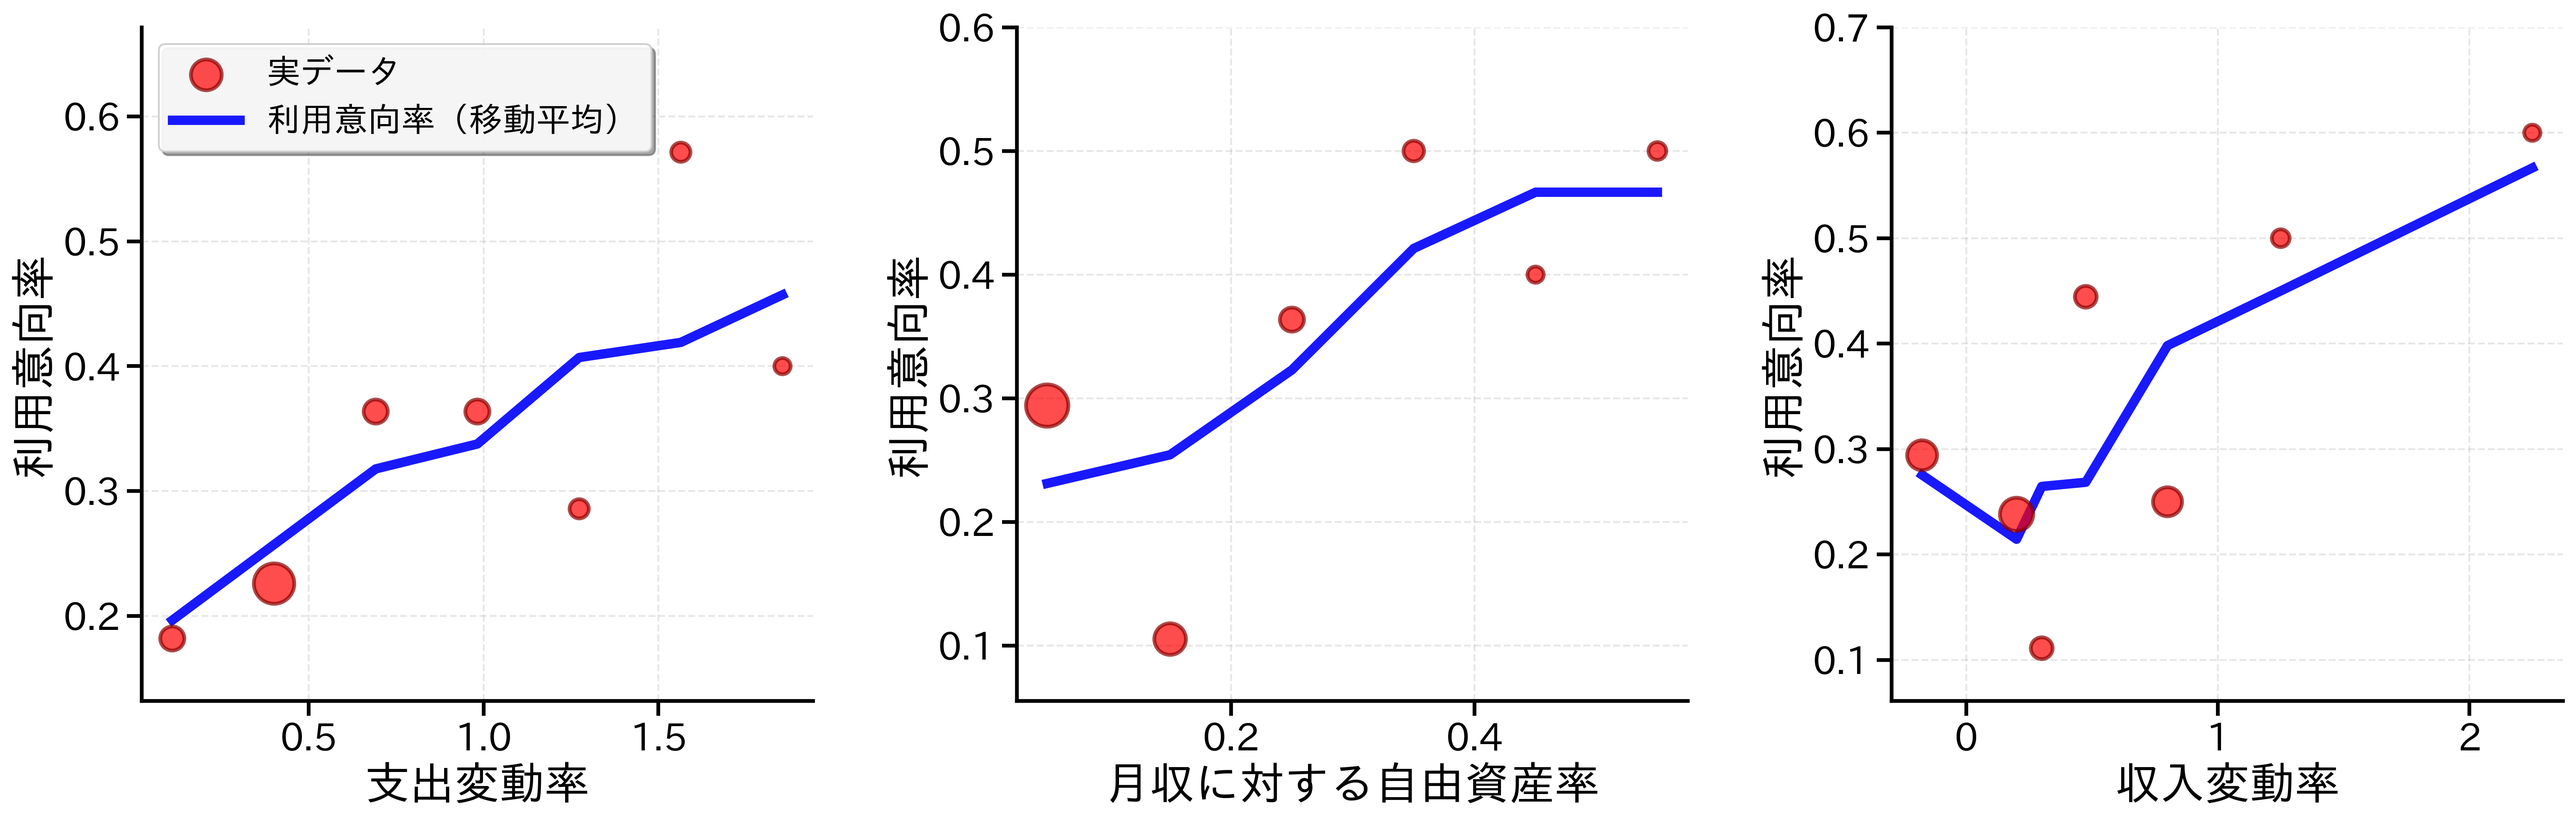
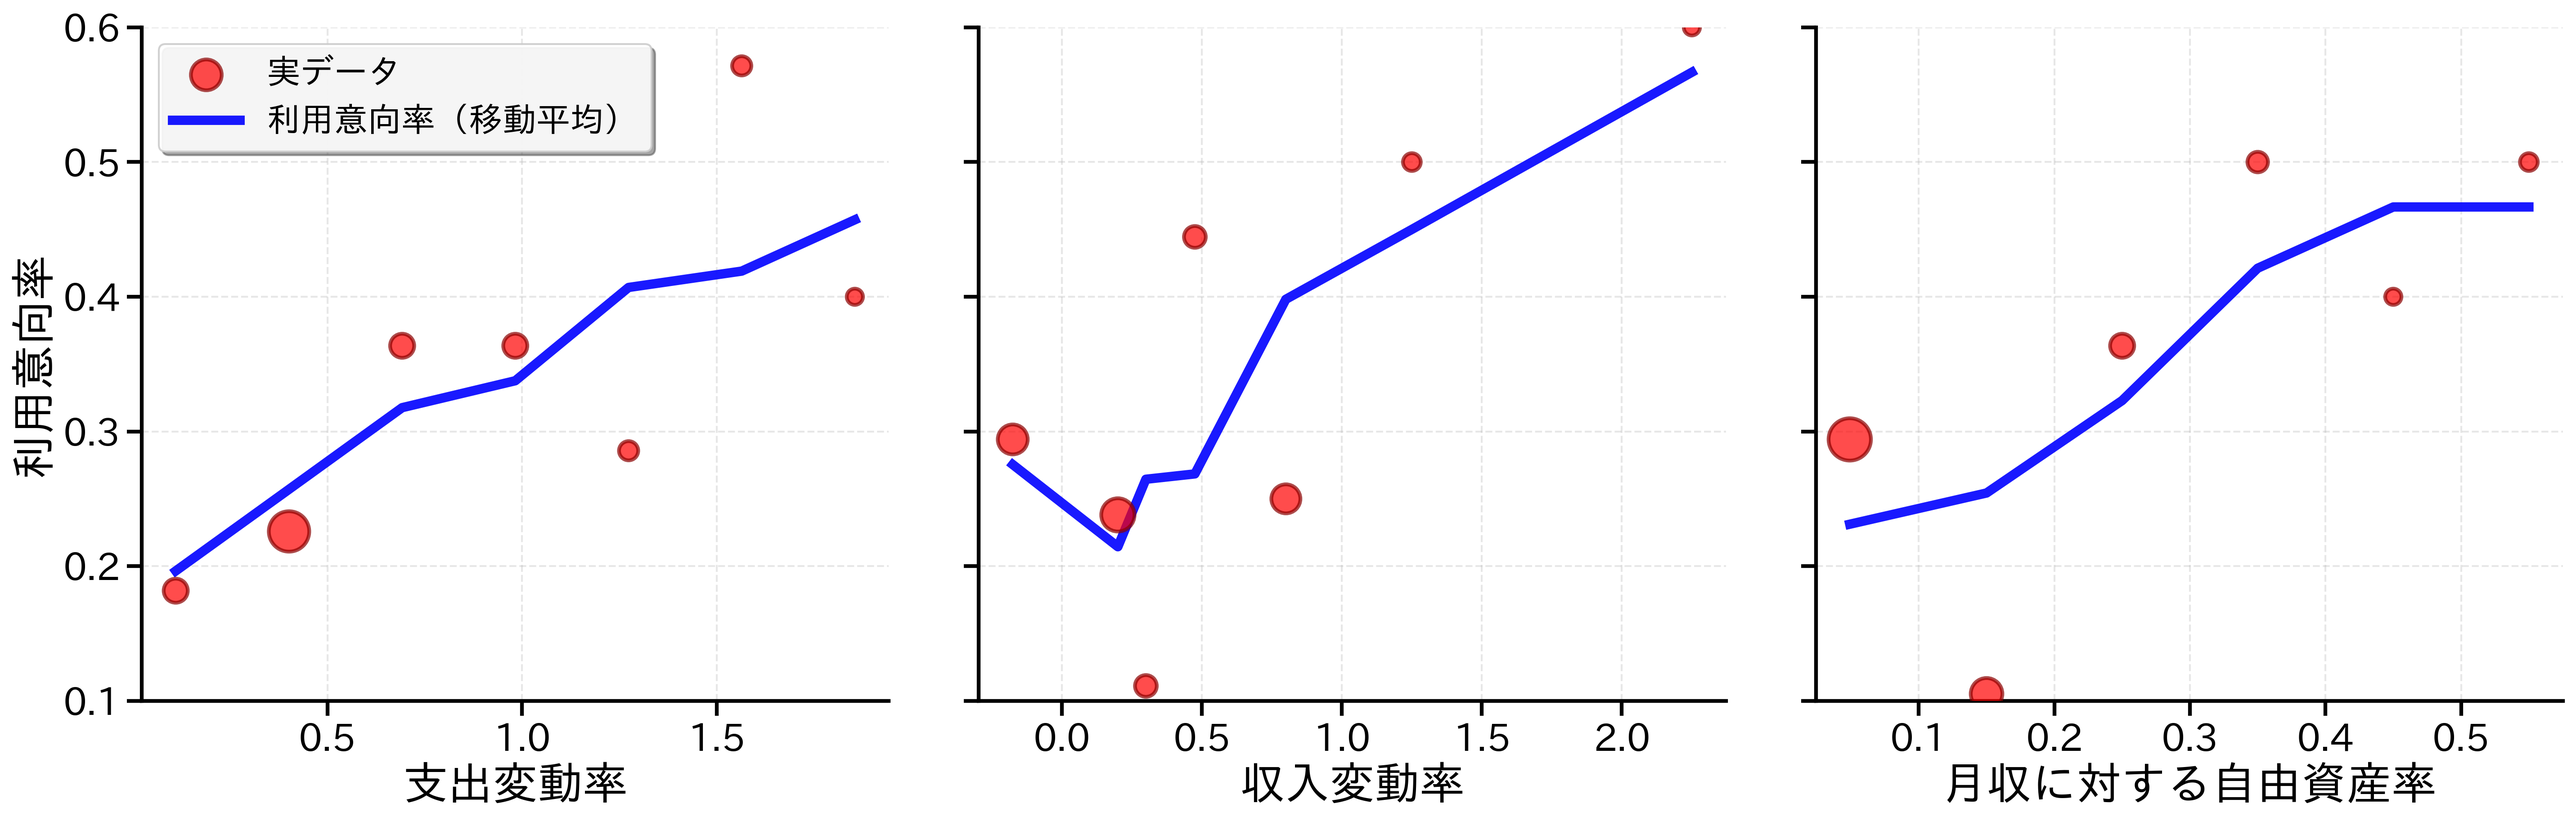
orfer

diff --git a/plot_for_mckinsey.py b/plot_for_mckinsey.py
@@ -35,8 +35,8 @@ def plot_usage_rate_for_mckinsey():
     # データ読み込み
     data = pd.read_csv("data/processed/preprocessed_100data.csv")
     
-    # 対象特徴量（収入変動額を削除）
-    features = ['支出変動率', '月収に対する自由資産率', '収入変動率']
+    # 対象特徴量（順序変更：支出変動率、収入変動率、自由資産率）
+    features = ['支出変動率', '収入変動率', '月収に対する自由資産率']
     
     # 出力ディレクトリの作成
     output_path = Path("output/mckinsey_slides")
@@ -98,12 +98,15 @@ def plot_usage_rate_for_mckinsey():
         
         # 軸設定（ラベルサイズ大）
         ax.set_xlabel(feature, fontsize=24, fontweight='bold')
-        ax.set_ylabel('利用意向率', fontsize=24, fontweight='bold')
         
-        # Y軸の範囲をデータに応じて調整
-        y_min = max(0, min(bin_stats['usage_rate']) - 0.05)
-        y_max = min(1, max(bin_stats['usage_rate']) + 0.1)
-        ax.set_ylim(y_min, y_max)
+        # Y軸ラベルは支出変動率のみ表示
+        if i == 0:  # 支出変動率のみ
+            ax.set_ylabel('利用意向率', fontsize=24, fontweight='bold')
+        else:  # 収入変動率と自由資産率はY軸の数値を非表示
+            ax.set_yticklabels([])
+        
+        # Y軸の範囲を0.1-0.6に統一
+        ax.set_ylim(0.1, 0.6)
         
         # グリッド追加（見やすさ向上）
         ax.grid(True, alpha=0.3, linestyle='--', linewidth=1)
@@ -127,7 +130,7 @@ def plot_usage_rate_for_mckinsey():
     # 保存（高解像度）
     output_file = output_path / "mckinsey_usage_rate_analysis.png"
     plt.savefig(output_file, dpi=300, bbox_inches='tight', facecolor='white', edgecolor='none')
-    plt.show()
+    plt.close()  # plt.show()の代わりにclose()を使用
     
     print(f"マッキンゼースライド用プロットを保存しました: {output_file}")
     
